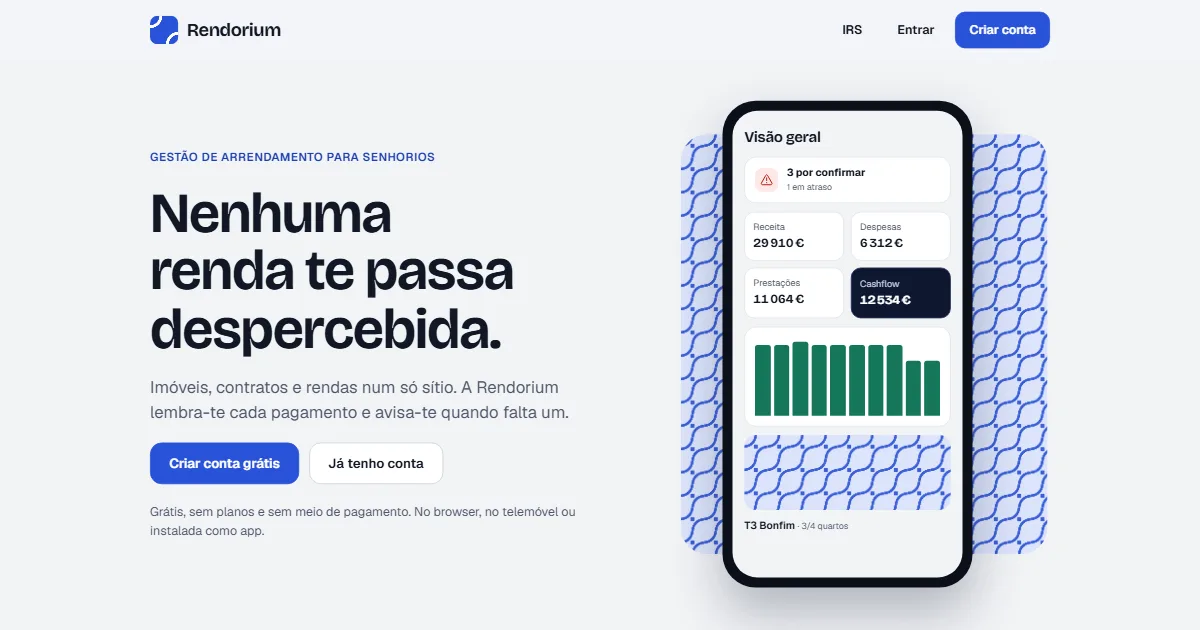
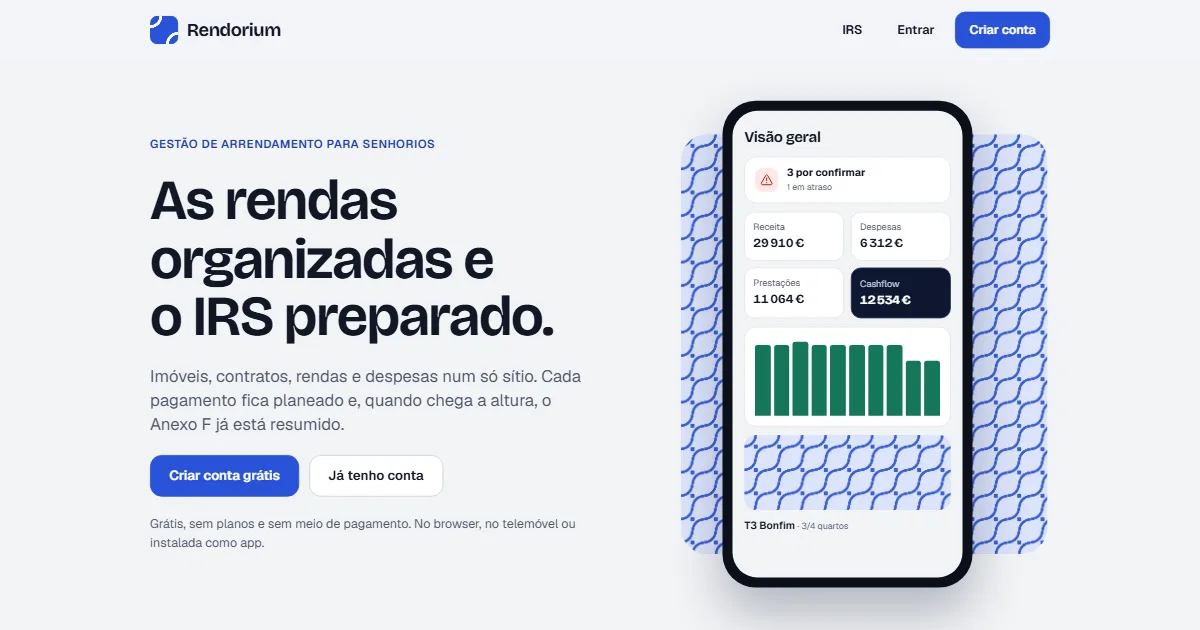
Montra: o foco passa a «As rendas organizadas e o IRS preparado», com o IRS na descrição (KAN-123)
O hero deixa o «Nenhuma renda te passa despercebida» e diz as rendas e o IRS;
o subtítulo diz o como. A descrição e o og:title levam o IRS; o title fica
sem ele, para a pesquisa pelo IRS continuar a ir ao guia. A imagem de
partilha volta a tirar-se do topo novo.

Changed region(s): [[0.1233, 0.2111, 0.4933, 0.8746]]

diff --git a/worker/src/landing.js b/worker/src/landing.js
@@ -6,7 +6,7 @@
    Bricolage Grotesque nos títulos —: quem clica em «Abrir a app» não pode
    sentir que mudou de produto.
 
-   O hero diz o valor antes de tudo (nenhuma renda passa despercebida), e a
+   O hero diz o valor antes de tudo (as rendas organizadas e o IRS preparado), e a
    seguir cada ecrã que o entrega tem a sua secção: Imóveis, Contratos,
    Planeados. A página MOSTRA o produto, e já não com capturas: os telemóveis e
    o computador são maquetes desenhadas em HTML e CSS, com o mosaico da marca
@@ -323,15 +323,17 @@ const DADOS = [
 ];
 
 /* O que os motores de busca e as redes mostram. Com os termos que um senhorio
-   procura (gestão de arrendamento, controlo de rendas, rendas em atraso), e
-   sem o IRS: a pesquisa pelo IRS chega ao guia (guia-vista.js), que tem os
-   metadados dele. Na página, o IRS aparece no ecrã do Anexo F (a Declaração
-   existe em produção desde 2026-11-12) e nas ligações para o guia: o botão
-   do cabeçalho, o cartão e o rodapé. O título fica nos 60 caracteres e a descrição nos 160, o que o
-   Google mostra sem cortar. */
+   procura (gestão de arrendamento, rendas em atraso). A descrição e o
+   og:title dizem o foco do hero — as rendas organizadas e o IRS preparado —;
+   o título fica sem o IRS, para a pesquisa pelo IRS continuar a chegar ao
+   guia (guia-vista.js), que tem os metadados dele. Na página, o IRS aparece
+   no hero, no ecrã do Anexo F e nas ligações para o guia: o botão do
+   cabeçalho, o cartão e o rodapé. O título fica nos 60 caracteres e a
+   descrição nos 160, o que o Google mostra sem cortar. */
 const TITULO = 'Rendorium — gestão de arrendamento para senhorios';
-const DESCRICAO = 'App grátis para senhorios: imóveis, contratos e rendas num só sítio. ' +
-  'Controlo de rendas com avisos de rendas em atraso, IMI, condomínio e crédito.';
+const TITULO_PARTILHA = 'Rendorium — as rendas organizadas e o IRS preparado';
+const DESCRICAO = 'App grátis para senhorios: imóveis, contratos e rendas organizados, ' +
+  'com avisos de rendas em atraso, IMI e condomínio, e o IRS das rendas preparado.';
 
 // os traços dos dois ícones que não são de capacidade: o aviso e o visto
 const AVISO = 'M12 8v5M12 16.5v.5M10.3 3.8L2.6 17.5A2 2 0 0 0 4.3 20.5h15.4a2 2 0 0 0 1.7-3L13.7 3.8a2 2 0 0 0-3.4 0z';
@@ -434,7 +436,7 @@ export function paginaLanding(op) {
   const volta = raiz ? '/' : '/montra';
   const hoje = new Date();
   const cabecaRaiz = raiz ? `<meta property="og:type" content="website">
-<meta property="og:title" content="Rendorium — nenhuma renda te passa despercebida">
+<meta property="og:title" content="${TITULO_PARTILHA}">
 <meta property="og:description" content="${DESCRICAO}">
 <meta property="og:url" content="https://rendorium.com">
 <meta property="og:image" content="https://rendorium.com${IMG}/partilha.webp">
@@ -474,9 +476,9 @@ ${escolha === 'sim' ? '<script src="/paginas/rasto-montra.js" defer></script>\n'
   <section class="wrap hero" id="inicio">
     <div class="hero-texto">
       <p class="chapeu">Gestão de arrendamento para senhorios</p>
-      <h1>Nenhuma renda te passa despercebida.</h1>
-      <p class="sub">Imóveis, contratos e rendas num só sítio. A Rendorium lembra-te cada
-      pagamento e avisa-te quando falta um.</p>
+      <h1>As rendas organizadas e o&nbsp;IRS preparado.</h1>
+      <p class="sub">Imóveis, contratos, rendas e despesas num só sítio. Cada pagamento fica
+      planeado e, quando chega a altura, o Anexo&nbsp;F já está resumido.</p>
       <div class="cta">
         <a class="btn primary" href="${APP}/?criar=1">Criar conta grátis</a>
         <a class="btn" href="${APP}">Já tenho conta</a>

diff --git a/testes/landing.test.js b/testes/landing.test.js
@@ -312,7 +312,9 @@ describe('a página de entrada', () => {
      Contratos, Planeados, IRS · Anexo F) tem a sua secção, com o título e o telemóvel. */
   test('o valor primeiro, e cada ecrã na sua secção', () => {
     assert.equal((html.match(/<h1[ >]/g) || []).length, 1, 'um título só');
-    assert.match(html, /<p class="chapeu">Gestão de arrendamento para senhorios<\/p>\s*<h1>Nenhuma renda te passa despercebida\.<\/h1>/);
+    // o «o IRS» e o «Anexo F» não se partem ao fim da linha (&nbsp;)
+    assert.match(html, /<p class="chapeu">Gestão de arrendamento para senhorios<\/p>\s*<h1>As rendas organizadas e o&nbsp;IRS preparado\.<\/h1>/);
+    assert.match(html, /<p class="sub">Imóveis, contratos, rendas e despesas num só sítio\. Cada pagamento fica\s+planeado e, quando chega a altura, o Anexo&nbsp;F já está resumido\.<\/p>/);
     assert.match(html, /<h2>Do imóvel à renda, tudo ligado<\/h2>/);
     for (const id of ['imoveis', 'contratos', 'planeados', 'irs']) {
       const s = new RegExp('<section class="wrap ecra-seccao[^"]*" id="' + id + '" aria-labelledby="t-' + id +
@@ -342,8 +344,13 @@ describe('a página de entrada', () => {
       assert.match(cartao, /IRS/, 'o cartão ' + onde);
       assert.match((rodape.match(paraOGuia) || []).join(''), /IRS/, 'a ligação do rodapé ' + onde);
       assert.match(ecra, /A app resume; quem declara és tu/, 'o ecrã diz que a app resume ' + onde);
-      const resto = h.replace(cartao, '').replace(ecra, '').replace(paraOGuia, '');
-      assert.doesNotMatch(resto, /IRS|Anexo F/, 'o IRS fora do ecrã, do botão, do cartão e do rodapé ' + onde);
+      // desde 2026-11-13 (KAN-123) o hero e a descrição dizem o foco: as rendas e o IRS
+      const hero = /<section class="wrap hero"[\s\S]*?<\/section>/.exec(h)[0];
+      assert.match(hero, /<h1>As rendas organizadas e o&nbsp;IRS preparado\.<\/h1>/, 'o hero ' + onde);
+      const metas = /<meta (?:name="description"|property="og:(?:title|description)") content="[^"]*">/g;
+      const resto = h.replace(cartao, '').replace(ecra, '').replace(hero, '').replace(paraOGuia, '').replace(metas, '');
+      assert.doesNotMatch(resto, /IRS|Anexo F/, 'o IRS fora do hero, dos metadados, do ecrã, do botão, do cartão e do rodapé ' + onde);
+      assert.doesNotMatch(/<title>[^<]*<\/title>/.exec(h)[0], /IRS/, 'o título fica para o guia ' + onde);
       assert.deepEqual(promessasDoIrs(h), [], onde);
     }
   });
@@ -489,7 +496,9 @@ describe('a página de entrada', () => {
   });
 
   /* O que o Google mostra sem cortar: o título nos 60 caracteres e a
-     descrição nos 160, com os termos que um senhorio procura. */
+     descrição nos 160, com os termos que um senhorio procura. A descrição e
+     o og:title dizem o foco do hero (as rendas e o IRS); o título fica sem o
+     IRS, para não competir com o guia na pesquisa. */
   test('o título e a descrição cabem no que os motores mostram', () => {
     const titulo = /<title>([^<]+)<\/title>/.exec(html)[1];
     const desc = /<meta name="description" content="([^"]+)">/.exec(html)[1];
@@ -497,6 +506,8 @@ describe('a página de entrada', () => {
     assert.ok(desc.length >= 110 && desc.length <= 160, 'descrição com ' + desc.length);
     assert.match(titulo, /gestão de arrendamento/);
     assert.match(desc, /rendas em atraso/);
+    assert.match(desc, /IRS das rendas preparado/, 'a descrição diz o foco do hero');
+    assert.doesNotMatch(titulo, /IRS/, 'o título deixa o IRS para o guia');
     assert.match(html, new RegExp('<meta property="og:description" content="' + desc + '">'), 'e as redes dizem o mesmo');
   });
 

diff --git a/testes/montra.test.js b/testes/montra.test.js
@@ -76,7 +76,7 @@ describe('a pré-visualização não compete com a página a sério', () => {
     for (const op of [{ raiz: true }, undefined]) {
       const l = await texto(paginaLanding(op));
       assert.ok(!l.includes('${'), 'landing sem nada por interpolar');
-      assert.match(l, /Nenhuma renda te passa despercebida/, 'com o título');
+      assert.match(l, /As rendas organizadas e o&nbsp;IRS preparado/, 'com o título');
       assert.match(l, /<div class="telemovel" role="img"/, 'e com a maquete do telemóvel');
       const t = await texto(paginaLegal('privacidade', op));
       assert.ok(!t.includes('${'), 'documento sem nada por interpolar');

diff --git a/docs/decisoes.md b/docs/decisoes.md
@@ -113,6 +113,7 @@ confere que cada uma aponta para código que existe.
 - 2026-11-12 · A Declaração chega a produção
 - 2026-11-12 · A Declaração na montra, no quarto ecrã
 - 2026-11-13 · A Análise com abas, e a casca do telemóvel
+- 2026-11-13 · A montra muda de foco: as rendas organizadas e o IRS preparado (KAN-123)
 
 ## 2026-09-08 · As formas dos gráficos deixam de ser paragens do Tab
 A lista das dívidas tinha como «média» uma coisa que se via a usar o teclado:
@@ -3925,3 +3926,19 @@ existir sem ligação); e, depois da auditoria dos rodapés, o «Fechar» sozinh
 janelas, quando a sugestão era o branco da ficha. O ecrã «Palavra-passe nova» fica com os botões
 dentro do cartão: é uma página de entrada, fora da app. O título da área no cabeçalho e os botões
 dos formulários no fundo ficam como estavam.
+
+## 2026-11-13 · A montra muda de foco: as rendas organizadas e o IRS preparado (KAN-123)
+
+Num ticket de QA, o Martinho pediu para passar o foco da montra de «Nenhuma renda te passa
+despercebida» para organizar as rendas e o portefólio, e preparar o IRS. Dos três títulos
+propostos escolheu o primeiro, com uma palavra dele: «As rendas organizadas e o IRS preparado.»
+O subtítulo diz o como: «Imóveis, contratos, rendas e despesas num só sítio. Cada pagamento fica
+planeado e, quando chega a altura, o Anexo F já está resumido.» Com a Declaração em produção, o
+IRS deixou de ser só o guia e passou a ser uma das razões fortes para usar a app.
+
+Muda também a decisão de 2026-11-12 sobre os metadados: a descrição e o og:title passam a levar o
+IRS (landing.js:DESCRICAO, landing.js:TITULO_PARTILHA), e o title fica «Rendorium — gestão de
+arrendamento para senhorios», para a pesquisa pelo IRS continuar a chegar ao guia. A imagem de
+partilha volta a tirar-se do topo novo. A guarda testes/landing.test.js:promessasDoIrs não muda:
+«preparado» e «resumido» dizem o que a app faz, e quem declara continua a ser a pessoa. A frase
+antiga fica nas boas-vindas da app, que são outra coisa.

diff --git a/docs/design.md b/docs/design.md
@@ -6073,7 +6073,7 @@ montra e os documentos pré-carregam-nas. Nada do Google Fonts.
 
 A montra (worker/src/landing.js:paginaLanding) diz o valor antes de tudo: o
 chapéu diz o que é («Gestão de arrendamento para senhorios»), o título diz a
-vantagem («Nenhuma renda te passa despercebida.»), e logo abaixo de «Do imóvel
+vantagem («As rendas organizadas e o IRS preparado.»), e logo abaixo de «Do imóvel
 à renda, tudo ligado» cada ecrã que a entrega tem a sua secção — Imóveis,
 Contratos, Planeados (landing.js:ECRAS) —, o texto de um lado e o telemóvel
 do outro, a alternar. Mostra o produto em maquetes de HTML e CSS — o
@@ -6090,10 +6090,12 @@ landing.js:PRESTACAO_MES, landing.js:CASAS): as rendas dos Imóveis somam o
 Planeados mostram. As alturas das barras são regras :nth-child geradas dos
 dados (landing.js:alturasDasBarras), porque a página não tem atributos de
 estilo, e o único JavaScript que leva é o do rasto, a quem o aceitou («O rasto
-das pessoas»). A montra só promete o que a produção tem: nada do IRS
-enquanto a Declaração só existir em dev. O título e a descrição
+das pessoas»). A montra só promete o que a produção tem, e nunca que a app
+declara ou entrega o IRS. O título e a descrição
 (landing.js:TITULO, landing.js:DESCRICAO) ficam nos 60 e nos 160 caracteres,
-com os termos que um senhorio procura. Das capturas antigas fica só a imagem de
+com os termos que um senhorio procura; a descrição e o og:title
+(landing.js:TITULO_PARTILHA) dizem o foco do hero, e o título fica sem o
+IRS, que a pesquisa pelo IRS é do guia. Das capturas antigas fica só a imagem de
 partilha (og:image), que as redes mostram sem correr CSS, e que o
 scripts/capturas.js tira. Os documentos legais e a entrada de teste
 (worker/src/legal-vista.js, worker/src/teste.js) são da mesma família.
